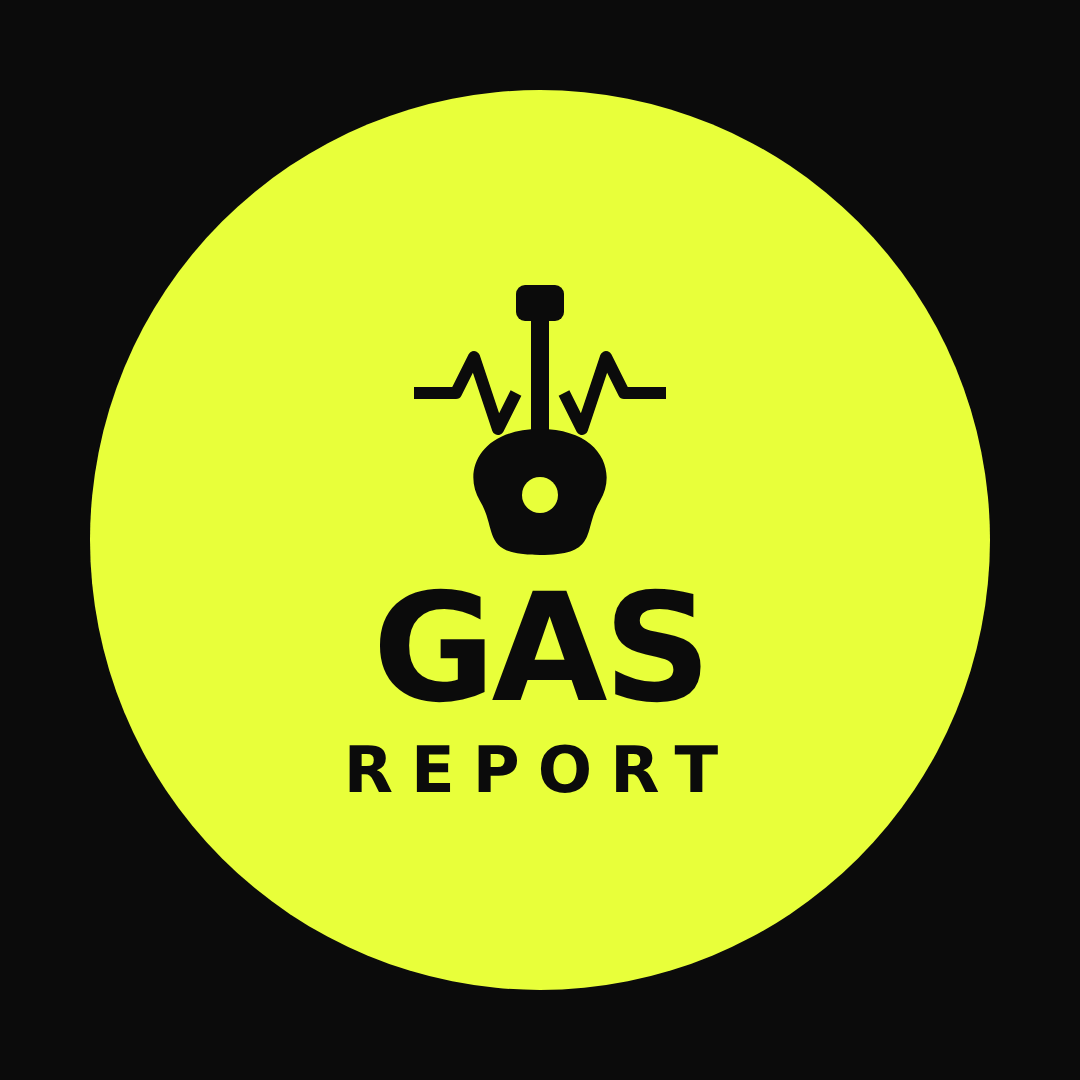
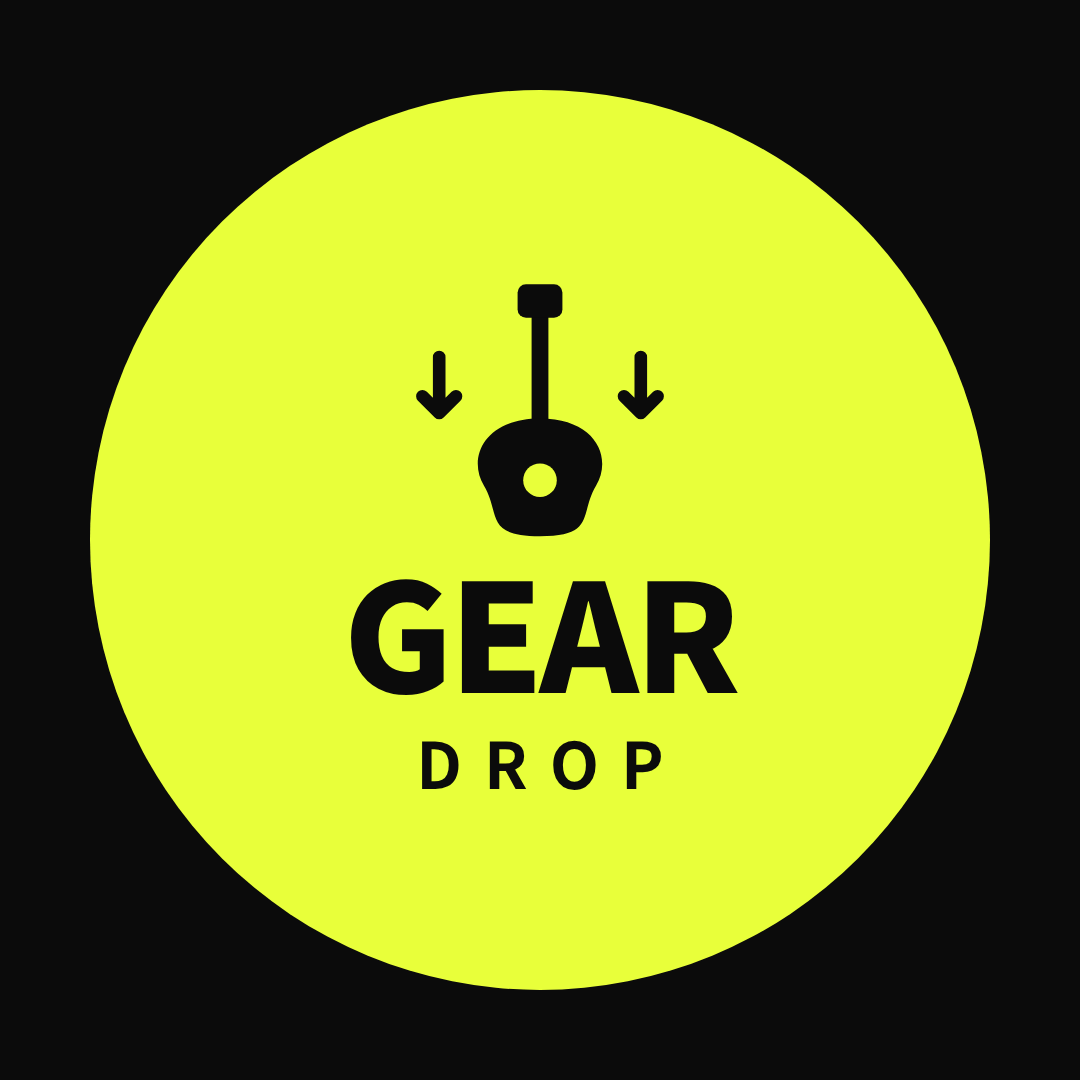
Rebrand to @gear.drop.kr and add first two carousel posts
Claude-Session: https://claude.ai/code/session_01QgV7WsdU4Wmt28492K41b4

Changed region(s): [[0.3056, 0.4278, 0.7028, 0.7333], [0.3972, 0.3056, 0.6111, 0.4889], [0.55, 0.4278, 0.5806, 0.4583]]

diff --git a/instagram/README.md b/instagram/README.md
@@ -1,0 +1,54 @@
+# @gear.drop.kr 운영 노트
+
+## 프로필
+- 사진: `profile.png`
+- 이름: `GEAR DROP · 일렉기타 소식`
+- 소개:
+  ```
+  🎸 일렉기타 신제품 · 이펙터 · 장비 이슈
+  해외 소식을 한국어로 빠르게
+  📩 제보 DM 환영
+  ```
+
+## 첫 9개 게시물 계획
+| # | 종류 | 주제 | 상태 |
+|---|---|---|---|
+| 1 | 소개 | 계정 소개 | ✅ 완성 (`post01_*.png`) |
+| 2 | 정보 | 싱글 vs 험버커 | ✅ 완성 (`post02_*.png`) |
+| 3 | 공감 | 장비병 단계별 증상 | 예정 |
+| 4 | 뉴스 | 최근 신제품 TOP 5 | 예정 (리서치 필요) |
+| 5 | 정보 | 입문 일렉 고르는 법 | 예정 |
+| 6 | 아티스트 | 유명 기타리스트 페달보드 해부 | 예정 |
+| 7 | 정보 | 페달 연결 순서 기본 | 예정 |
+| 8 | 뉴스 | 2027 NAMM 미리보기 | 예정 (리서치 필요) |
+| 9 | 공감 | 합주실 국룰 모음 | 예정 |
+
+## 캡션
+
+### 게시물 1 — 계정 소개
+```
+일렉기타 소식, 이제 한국어로 빠르게 🎸
+
+해외 장비 뉴스 찾아 헤매지 마세요.
+신제품, 이펙터, 단종, 가격 이슈까지
+GEAR DROP이 매주 정리해 드립니다.
+
+📌 팔로우하고 새 소식 먼저 받기
+📩 제보는 DM으로 언제든 환영
+
+#일렉기타 #기타 #이펙터 #페달보드 #장비병 #기타장비 #electricguitar #guitargear #pedalboard #gearnews
+```
+
+### 게시물 2 — 싱글 vs 험버커
+```
+싱글코일 vs 험버커, 아직도 헷갈린다면 👀
+
+✔ 싱글: 밝고 쨍한 소리, 대신 노이즈 주의
+✔ 험버커: 두껍고 힘 있는 소리, 노이즈 적음
+✔ 둘 다 원하면? HSS나 코일 스플릿!
+
+여러분 기타는 어떤 픽업인가요? 댓글로 알려주세요 👇
+저장해 두고 기타 살 때 꺼내 보세요 🔖
+
+#일렉기타 #기타픽업 #싱글코일 #험버커 #스트라토캐스터 #레스폴 #기타입문 #기타레슨 #electricguitar #guitarpickups
+```
